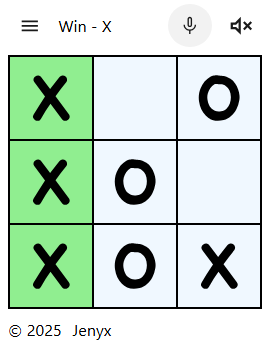
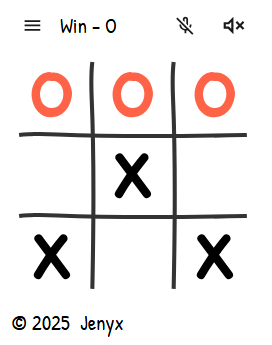
font-family

diff --git a/www/src/Layout/Layout.js b/www/src/Layout/Layout.js
@@ -21,10 +21,10 @@ export class Layout extends Control {
             style: [
                 'display: flex',
                 'flex-direction: column',
-                'font-family: system-ui',
                 'width: fit-content',
                 'margin: auto',
-                'font-size: 4.5vmin',
+                `font-family: 'Patrick Hand', cursive`,
+                'font-size: clamp(1rem, 6vmin, 3rem)',
             ],
             options
         });

diff --git a/www/app.html b/www/app.html
@@ -8,6 +8,7 @@
     <meta name="viewport" content="width=device-width">
     <link rel="icon" type="image/svg+xml" href="src/Assert/favicon.svg">
     <script src="src/App/App.js" type="module"></script>
+    <link href="https://fonts.googleapis.com/css2?family=Patrick+Hand&display=swap" rel="stylesheet">
 </head>
 
 </html>

diff --git a/docs/README.md b/docs/README.md
@@ -1,17 +1,18 @@
 # TODO
+  
+  Здесь был Jenyx
 
-- fead: add NavigationDriver
+
+- fead: add Menu page
+- feat: add Setting page
 - feat: add Language page
-- feat: Setting
+
 - feat: mp3
+- feat: add gametimer
 - feat: add Speech
 - feat: add PWA
 - feat: add Google Analytics component
-- feat: add settings page
 - feat: add indexeddb store - settings
-- feat: add gametimer
-
 
 - Theme
-- color_text
 - i18n
